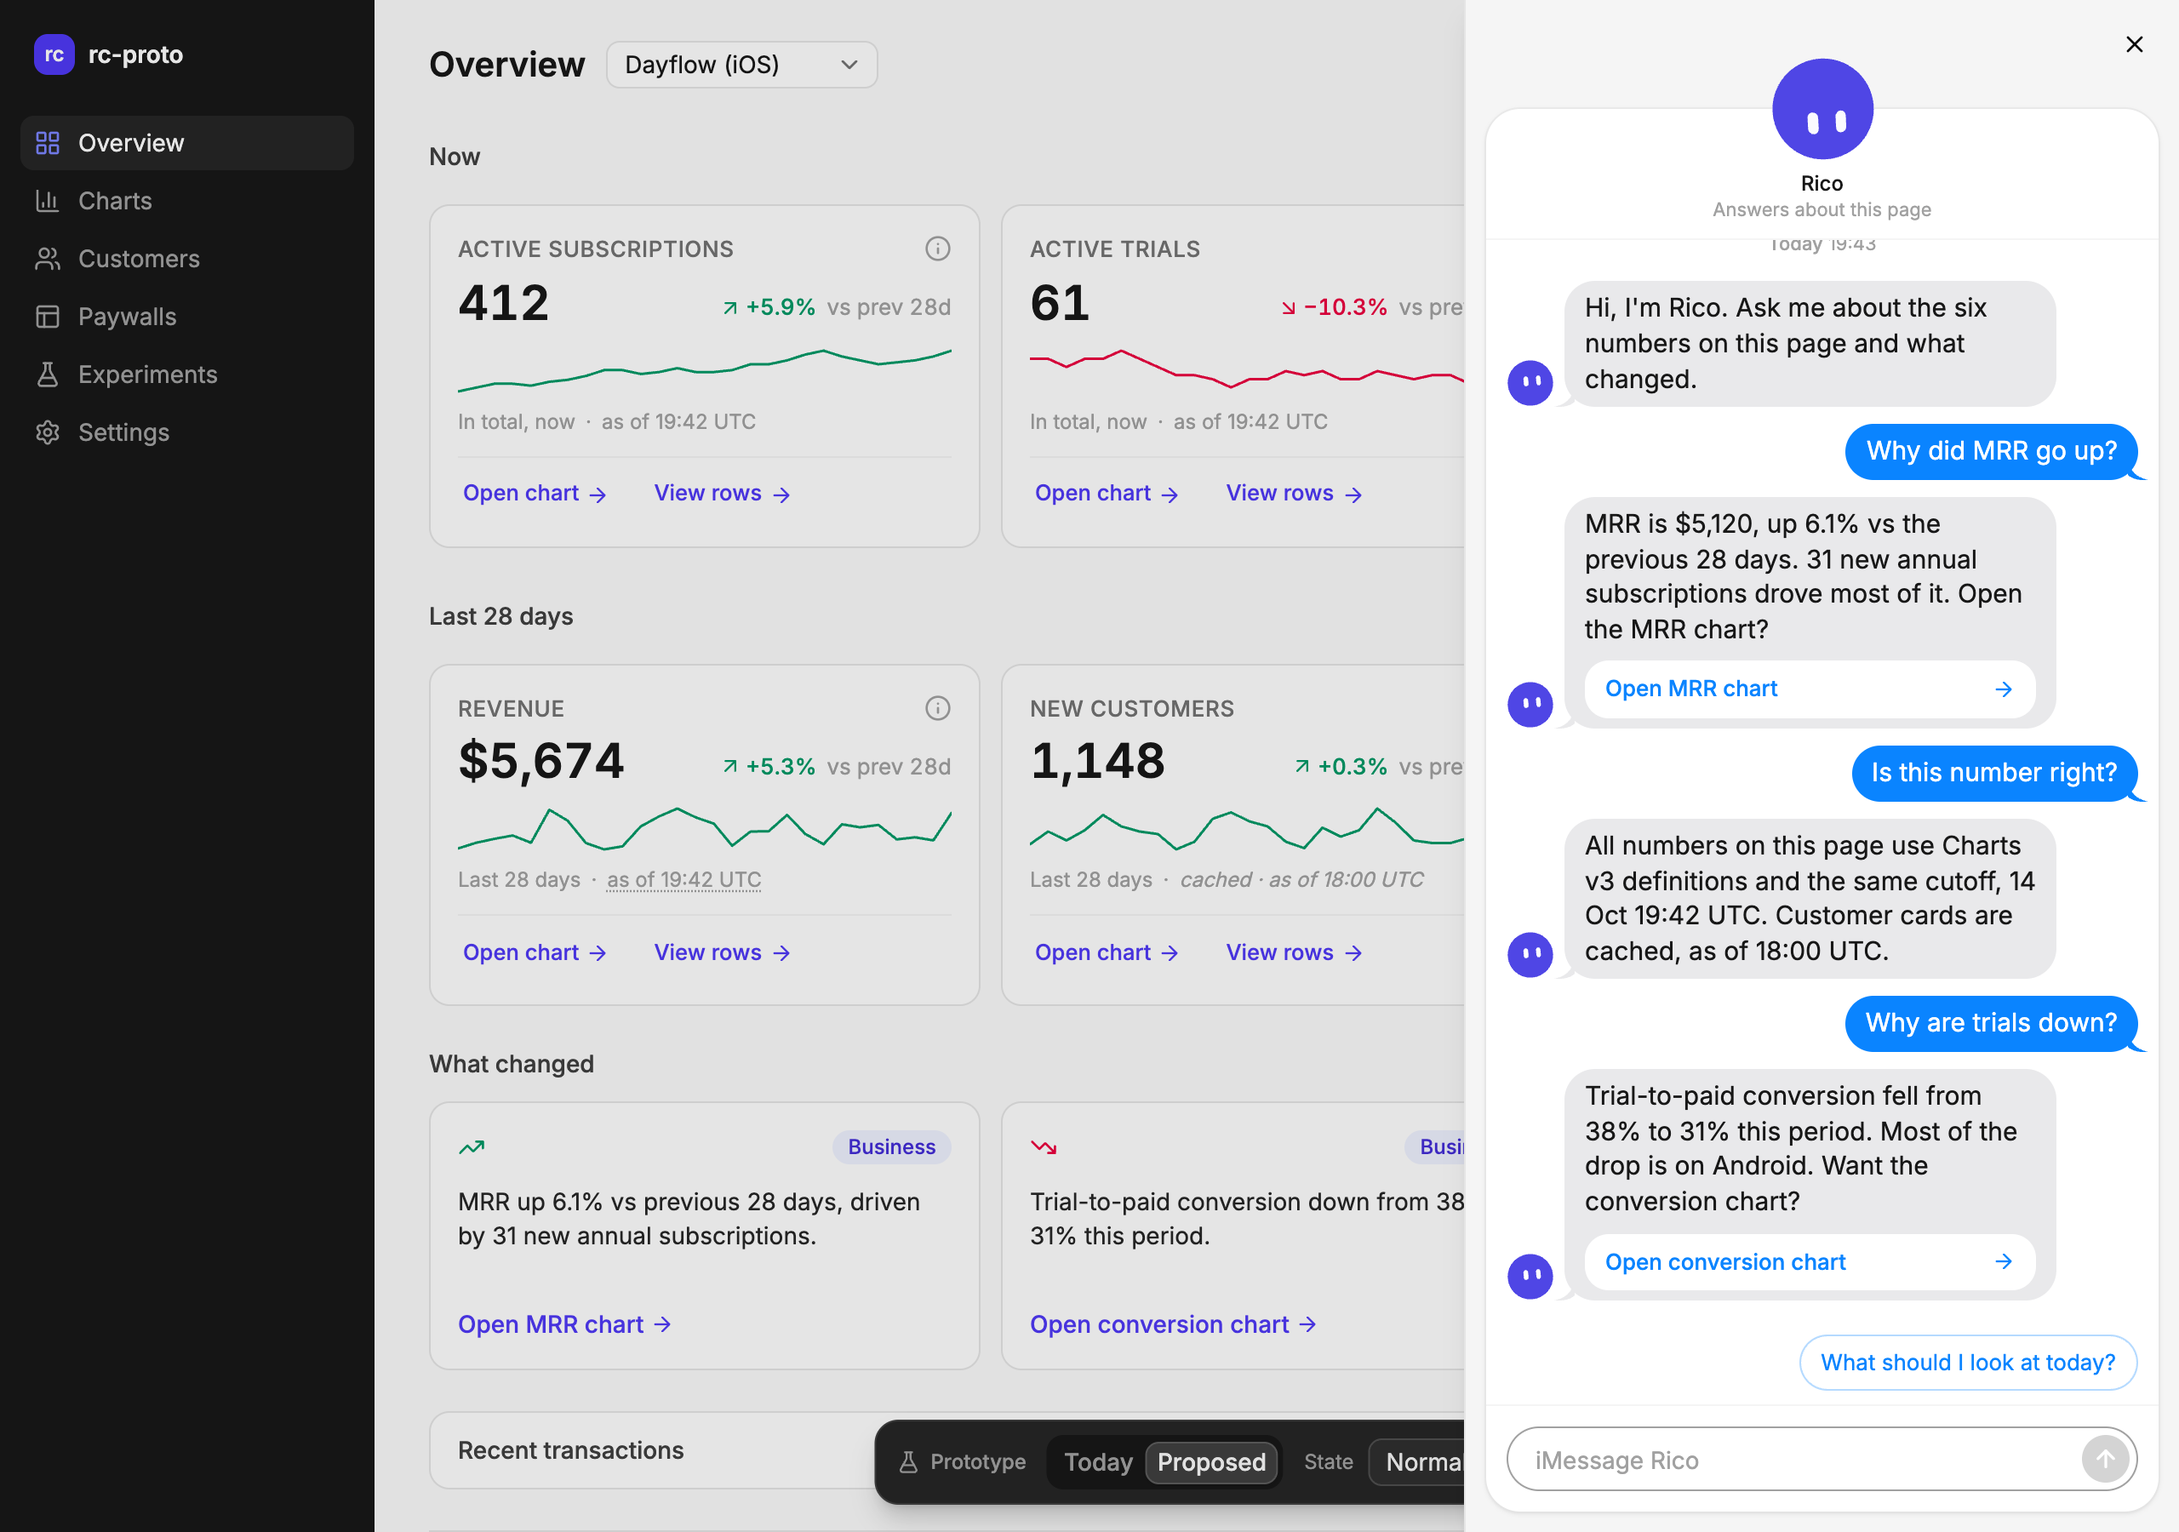
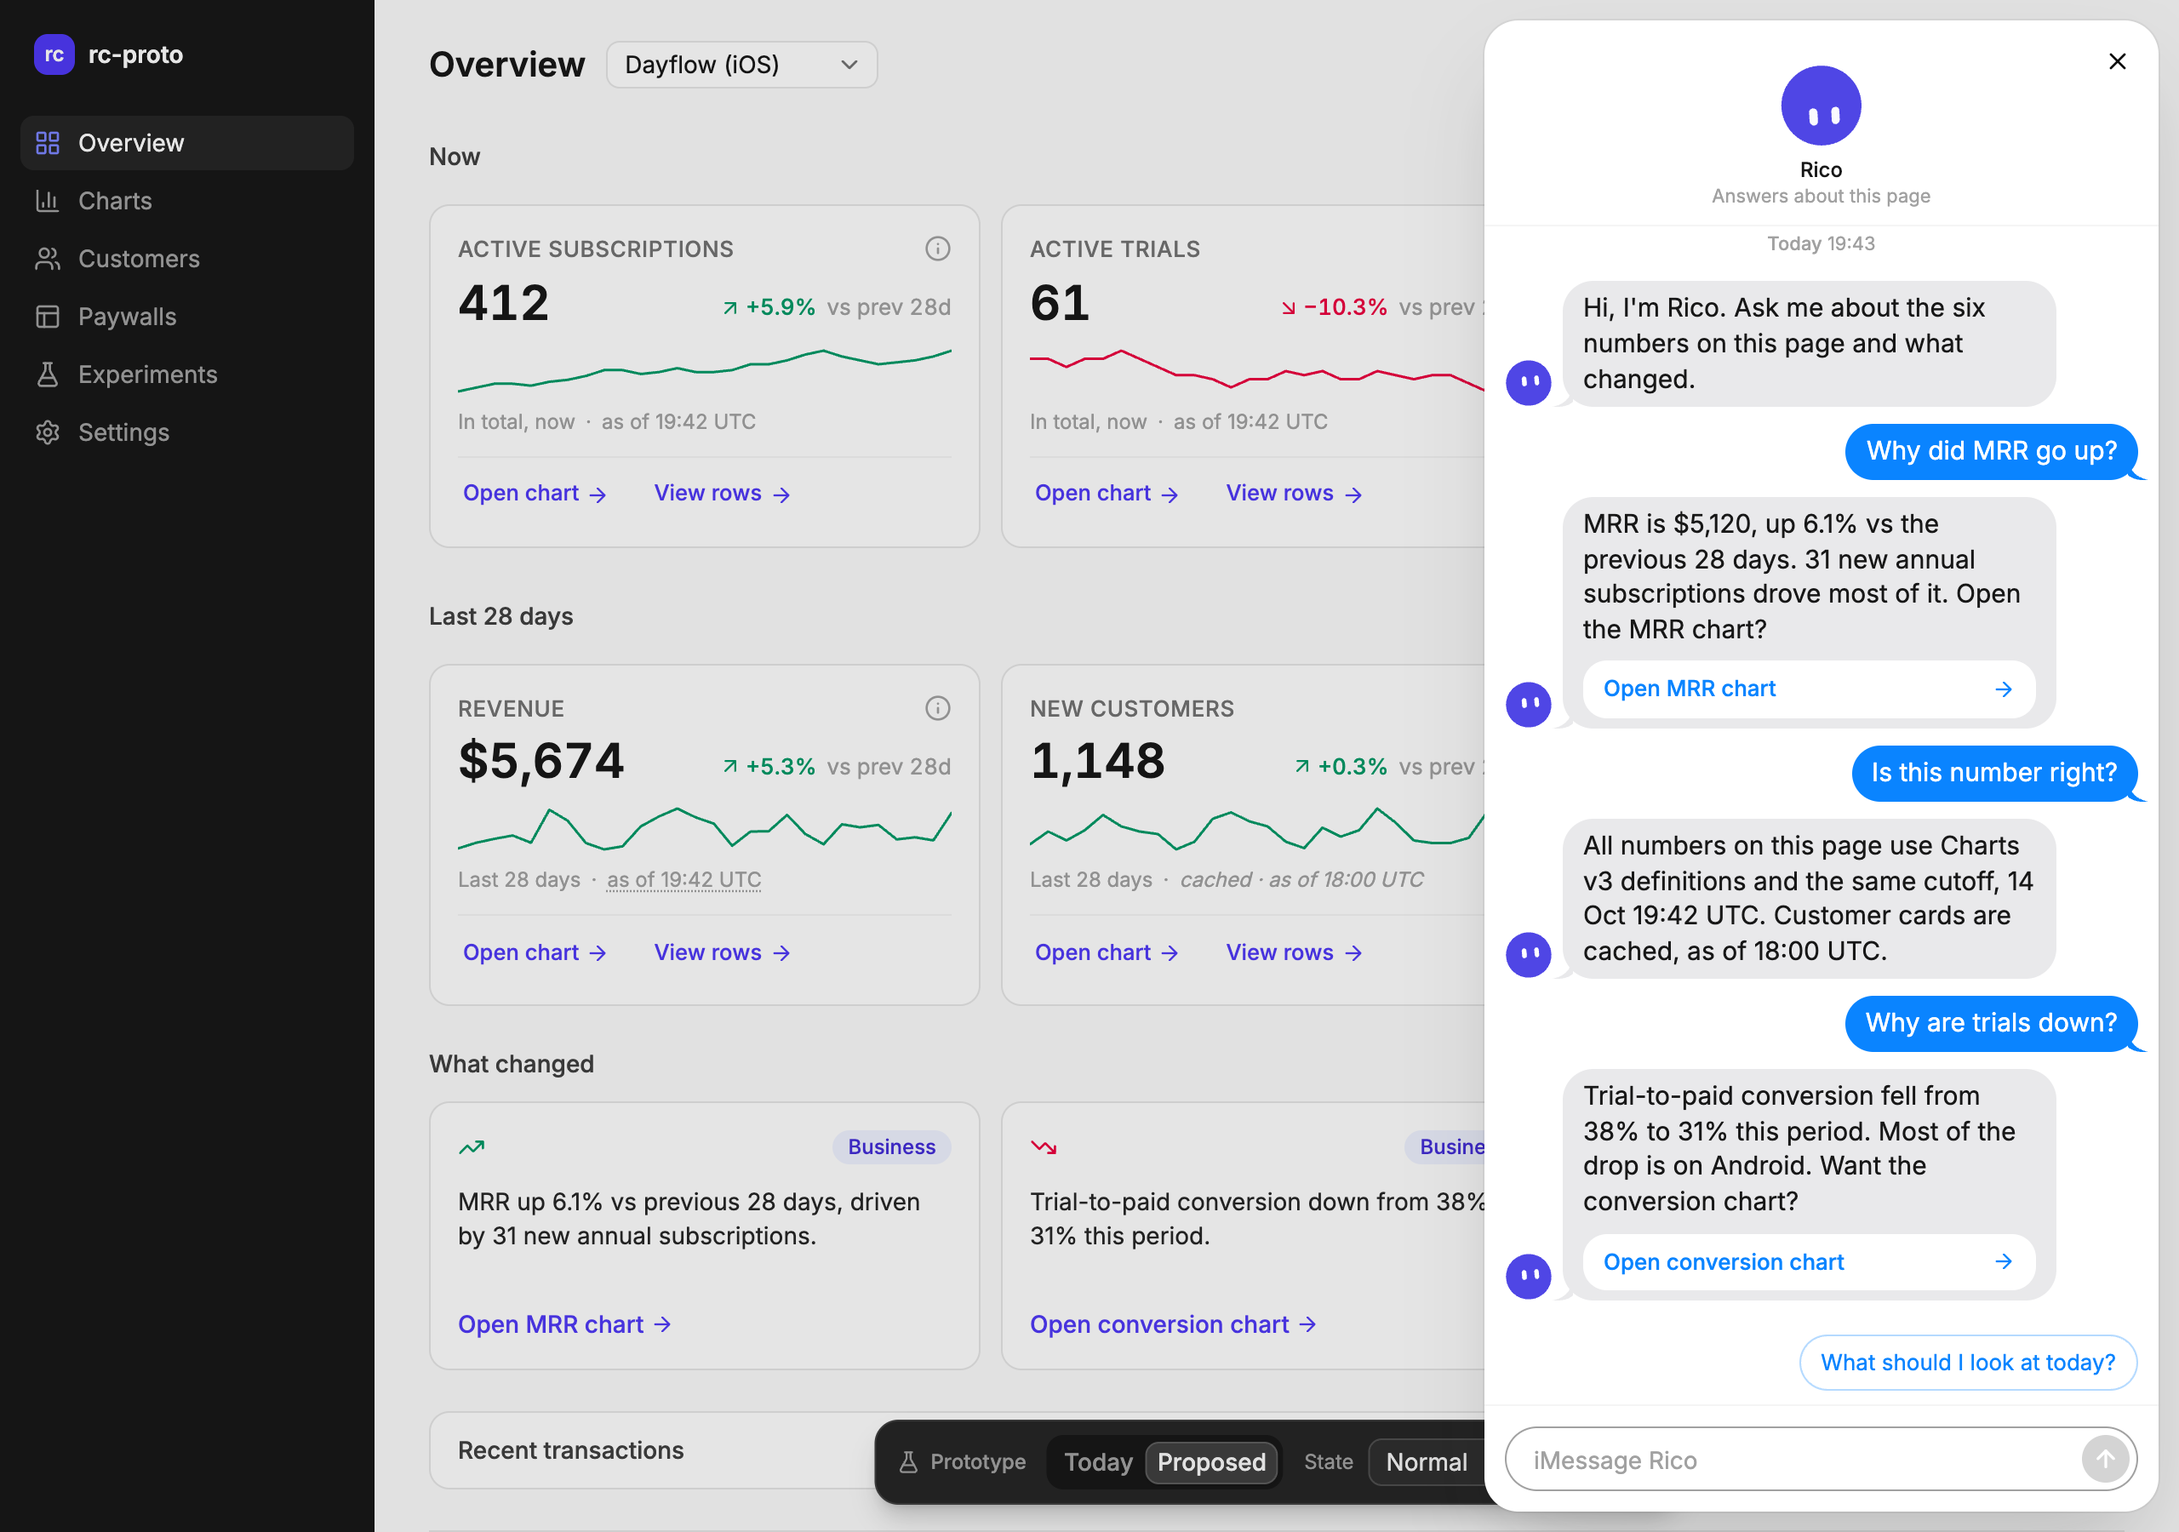
Rico chat as a floating card with Rico in its header; drag Rico between corners with drop spots

diff --git a/src/components/Rico.tsx b/src/components/Rico.tsx
@@ -1,6 +1,7 @@
-import { lazy, Suspense, useState } from "react";
+import { lazy, Suspense, useRef, useState } from "react";
 import { BloubRico } from "@/components/BloubRico";
 import { RICO_EYES, ricoPath } from "@/lib/rico-shape";
+import { cn } from "@/lib/utils";
 import { Tooltip, TooltipContent, TooltipTrigger } from "@/components/ui/tooltip";
 
 // Which Rico the page uses. "bloub" (round 5) is the bloub engine; "blob3d" (round 4) is the
@@ -49,29 +50,146 @@ export function RicoLive({ size, thinking, happy }: { size: number; thinking?: b
   return <BloubRico size={size} follow state={thinking ? "thinking" : "idle"} expression={happy ? "excite" : "attentif"} />;
 }
 
-// Floating bottom-right launcher: animated Rico, tooltip on hover, click opens the chat.
+type Corner = "br" | "bl" | "tr" | "tl";
+const CORNERS: Corner[] = ["br", "bl", "tr", "tl"];
+// Where Rico can sit. Bottom corners clear the prototype dock on a phone; left corners clear
+// the sidebar on desktop; top corners clear the phone top bar.
+const CORNER_CLASS: Record<Corner, string> = {
+  br: "right-1 bottom-20 md:right-3 md:bottom-2",
+  bl: "left-1 bottom-20 md:left-[228px] md:bottom-2",
+  tr: "right-1 top-12 md:right-3 md:top-2",
+  tl: "left-1 top-12 md:left-[228px] md:top-2",
+};
+const CORNER_KEY = "rico-corner";
+const DRAG_START = 6; // px of movement before a press becomes a drag
+
+function savedCorner(): Corner {
+  try {
+    const c = localStorage.getItem(CORNER_KEY) as Corner | null;
+    return c && CORNERS.includes(c) ? c : "br";
+  } catch {
+    return "br";
+  }
+}
+
+// Floating launcher: animated Rico in a corner, tooltip on hover, click opens the chat.
+// Drag it and the other corners show drop spots; it snaps to the nearest one on release.
 export function RicoLauncher({ onOpen }: { onOpen: () => void }) {
   const bloub = RICO_VERSION === "bloub";
   const size = bloub ? 96 : 72; // bloub's body fills ~63% of its box
+  const [corner, setCorner] = useState<Corner>(savedCorner);
   const [hover, setHover] = useState(false);
   const [jiggle, setJiggle] = useState(false);
+  // While dragging: Rico's box top-left in viewport px, and the corner it would land in.
+  const [drag, setDrag] = useState<{ x: number; y: number; target: Corner } | null>(null);
+  // After release: glide to the drop spot, then hand back to the corner classes.
+  const [landing, setLanding] = useState<{ x: number; y: number; corner: Corner } | null>(null);
+  const justDragged = useRef(false);
+  const spots = useRef<Partial<Record<Corner, HTMLDivElement | null>>>({});
+
+  const nearest = (cx: number, cy: number): Corner => {
+    let best: Corner = corner, bestD = Infinity;
+    for (const c of CORNERS) {
+      const r = spots.current[c]?.getBoundingClientRect();
+      if (!r) continue;
+      const d = Math.hypot(r.left + r.width / 2 - cx, r.top + r.height / 2 - cy);
+      if (d < bestD) { best = c; bestD = d; }
+    }
+    return best;
+  };
+
+  // Press is heard in the capture phase (the tooltip trigger may stop it bubbling); move and
+  // release on window, since a quick flick leaves Rico's box on the very first move.
+  const onPointerDown = (e: React.PointerEvent<HTMLDivElement>) => {
+    if (e.button !== 0) return;
+    const r = e.currentTarget.getBoundingClientRect();
+    const p = { x: e.clientX, y: e.clientY, dx: e.clientX - r.left, dy: e.clientY - r.top, dragged: false };
+    let last: { x: number; y: number } | null = null;
+
+    const move = (ev: PointerEvent) => {
+      if (!p.dragged && Math.hypot(ev.clientX - p.x, ev.clientY - p.y) < DRAG_START) return;
+      p.dragged = true;
+      ev.preventDefault();
+      last = { x: ev.clientX - p.dx, y: ev.clientY - p.dy };
+      setHover(false);
+      setDrag({ ...last, target: nearest(ev.clientX, ev.clientY) });
+    };
+    const up = (ev: PointerEvent) => {
+      window.removeEventListener("pointermove", move);
+      window.removeEventListener("pointerup", up);
+      window.removeEventListener("pointercancel", up);
+      if (!p.dragged || !last) return;
+      // The click that may follow this release is not a click.
+      justDragged.current = true;
+      setTimeout(() => { justDragged.current = false; }, 0);
+      const to = nearest(ev.clientX, ev.clientY);
+      const spot = spots.current[to]?.getBoundingClientRect();
+      setDrag(null);
+      // Already there (no transition would fire): land straight away.
+      if (spot && Math.hypot(spot.left - last.x, spot.top - last.y) > 1) setLanding({ x: spot.left, y: spot.top, corner: to });
+      else settle(to);
+    };
+    window.addEventListener("pointermove", move);
+    window.addEventListener("pointerup", up);
+    window.addEventListener("pointercancel", up);
+  };
+  const settle = (to: Corner) => {
+    setCorner(to);
+    try { localStorage.setItem(CORNER_KEY, to); } catch { /* per-viewer nicety only */ }
+    setLanding(null);
+  };
+  // left and top each end a transition; the second call finds landing already cleared.
+  const land = () => { if (landing) settle(landing.corner); };
+  const onClick = () => { if (!justDragged.current) onOpen(); };
+
+  const free = drag ?? landing;
+  const left = corner === "bl" || corner === "tl";
   return (
-    <div className={bloub ? "fixed right-1 bottom-20 z-40 md:right-3 md:bottom-2" : "fixed right-4 bottom-24 z-40 md:right-6 md:bottom-6"}>
-      <Tooltip>
-        <TooltipTrigger
-          render={<button onClick={onOpen} aria-label="Ask Rico" />}
-          onPointerEnter={() => { setHover(true); setJiggle(true); }}
-          onPointerLeave={() => setHover(false)}
-          className="group relative grid place-items-center rounded-full outline-none focus-visible:ring-3 focus-visible:ring-indigo-300"
+    <>
+      {/* Drop spots: always mounted so they can be measured, shown in the other corners while
+          dragging. Rico's own corner stays invisible but still counts, so letting go near it
+          puts Rico back. */}
+      {CORNERS.map((c) => (
+        <div
+          key={c}
+          ref={(el) => { spots.current[c] = el; }}
+          aria-hidden
+          className={cn("pointer-events-none fixed z-40 grid place-items-center", CORNER_CLASS[c], (!drag || c === corner) && "invisible")}
+          style={{ width: size, height: size }}
         >
-          <span aria-hidden className={bloub ? "absolute bottom-3 h-2 w-12 rounded-full bg-neutral-900/15 blur-[3px]" : "absolute bottom-1 h-2 w-10 rounded-full bg-neutral-900/15 blur-[3px]"} />
-          {/* The three.js blob jiggles itself; bloub gets one small CSS wobble per hover. */}
-          <span className={bloub && jiggle ? "rico-jiggle" : "block"} onAnimationEnd={() => setJiggle(false)}>
-            <RicoLive size={size} happy={hover} />
+          <span
+            className={cn(
+              "grid size-[62%] place-items-center rounded-full border-2 border-dashed text-center text-[10px] leading-tight font-medium transition-all duration-150",
+              drag?.target === c ? "scale-110 border-indigo-500 bg-indigo-100/80 text-indigo-700" : "border-indigo-300 bg-white/70 text-indigo-400",
+            )}
+          >
+            Drop<br />here
           </span>
-        </TooltipTrigger>
-        <TooltipContent side="left" sideOffset={bloub ? -6 : 4}>Ask Rico anything about this page</TooltipContent>
-      </Tooltip>
-    </div>
+        </div>
+      ))}
+
+      <div
+        className={cn("fixed", free ? "z-50" : "z-40", !free && CORNER_CLASS[corner], landing && "transition-[left,top] duration-300 ease-out")}
+        style={free ? { left: free.x, top: free.y } : undefined}
+        onTransitionEnd={(e) => e.target === e.currentTarget && land()}
+        onPointerDownCapture={onPointerDown}
+      >
+        <Tooltip open={hover && !free} onOpenChange={(o) => !o && setHover(false)}>
+          <TooltipTrigger
+            render={<button onClick={onClick} aria-label="Ask Rico" />}
+            onPointerEnter={() => { if (!free) { setHover(true); setJiggle(true); } }}
+            onPointerLeave={() => setHover(false)}
+            className={cn("group relative grid touch-none place-items-center rounded-full outline-none select-none focus-visible:ring-3 focus-visible:ring-indigo-300", drag ? "cursor-grabbing" : "cursor-grab")}
+          >
+            <span aria-hidden className={cn("absolute rounded-full bg-neutral-900/15 blur-[3px] transition-all", bloub ? "bottom-3 h-2 w-12" : "bottom-1 h-2 w-10", drag && "bottom-0 w-8 opacity-60")} />
+            {/* The three.js blob jiggles itself; bloub gets one small CSS wobble per hover. */}
+            <span className={cn(bloub && jiggle ? "rico-jiggle" : "block", drag && "scale-105")} onAnimationEnd={() => setJiggle(false)}>
+              <RicoLive size={size} happy={hover || !!drag} />
+            </span>
+          </TooltipTrigger>
+          <TooltipContent side={left ? "right" : "left"} sideOffset={bloub ? -6 : 4}>Ask Rico anything about this page</TooltipContent>
+        </Tooltip>
+      </div>
+    </>
   );
 }

diff --git a/src/components/Drawers.tsx b/src/components/Drawers.tsx
@@ -1,19 +1,22 @@
 import { useEffect, useRef, useState } from "react";
-import { ArrowRight, ArrowUp } from "lucide-react";
+import { ArrowRight, ArrowUp, XIcon } from "lucide-react";
 import { RicoAvatar, RicoLive } from "@/components/Rico";
 import { toast } from "sonner";
 import { Button } from "@/components/ui/button";
 import { Checkbox } from "@/components/ui/checkbox";
-import { Sheet, SheetContent, SheetDescription, SheetHeader, SheetTitle } from "@/components/ui/sheet";
+import { Sheet, SheetClose, SheetContent, SheetDescription, SheetHeader, SheetTitle } from "@/components/ui/sheet";
 import { cn } from "@/lib/utils";
 
 // One right-side drawer for Rico and for setup tasks: 420px, full width on a phone.
 export function SideDrawer({
-  open, onOpenChange, initialFocus, returnFocus = true, className, children,
-}: { open: boolean; onOpenChange: (o: boolean) => void; initialFocus?: React.RefObject<HTMLElement | null>; returnFocus?: boolean; className?: string; children: React.ReactNode }) {
+  open, onOpenChange, initialFocus, returnFocus = true, showCloseButton = true, className, children,
+}: {
+  open: boolean; onOpenChange: (o: boolean) => void; initialFocus?: React.RefObject<HTMLElement | null>;
+  returnFocus?: boolean; showCloseButton?: boolean; className?: string; children: React.ReactNode;
+}) {
   return (
     <Sheet open={open} onOpenChange={onOpenChange}>
-      <SheetContent side="right" initialFocus={initialFocus} finalFocus={returnFocus} className={cn("gap-0 bg-white data-[side=right]:w-full data-[side=right]:sm:max-w-[420px]", className)}>
+      <SheetContent side="right" initialFocus={initialFocus} finalFocus={returnFocus} showCloseButton={showCloseButton} className={cn("gap-0 bg-white data-[side=right]:w-full data-[side=right]:sm:max-w-[420px]", className)}>
         {children}
       </SheetContent>
     </Sheet>
@@ -65,14 +68,19 @@ export function RicoDrawer({
   const lastOfRun = (i: number) => messages[i + 1]?.from !== messages[i].from && !(typing && i === messages.length - 1 && messages[i].from === "rico");
 
   return (
-    <SideDrawer open={open} onOpenChange={onOpenChange} initialFocus={inputRef} returnFocus={false} className="bg-neutral-100">
-      {/* The white chat container, with Rico floating on its top edge. */}
-      <div className="relative mx-3 mt-16 mb-3 flex min-h-0 flex-1 flex-col rounded-[20px] bg-white shadow-sm ring-1 ring-neutral-200/70">
-        <div className="absolute -top-12 left-1/2 -translate-x-1/2">
-          <RicoLive size={96} thinking={typing} />
-        </div>
-        <div className="border-b border-neutral-100 pt-9 pb-2 text-center">
-          <SheetTitle className="text-xs font-medium text-neutral-900">Rico</SheetTitle>
+    // No sheet behind the chat: the sheet is transparent and only the white chat card slides in.
+    <SideDrawer
+      open={open} onOpenChange={onOpenChange} initialFocus={inputRef} returnFocus={false} showCloseButton={false}
+      className="bg-transparent p-2 shadow-none data-[side=right]:border-l-0 sm:p-3"
+    >
+      <div className="relative flex min-h-0 flex-1 flex-col overflow-hidden rounded-[20px] bg-white shadow-2xl shadow-neutral-900/20 ring-1 ring-black/5">
+        <SheetClose render={<Button variant="ghost" size="icon-sm" className="absolute top-2.5 right-2.5" />}>
+          <XIcon />
+          <span className="sr-only">Close</span>
+        </SheetClose>
+        <div className="flex flex-col items-center border-b border-neutral-100 pt-3 pb-2 text-center">
+          <RicoLive size={76} thinking={typing} />
+          <SheetTitle className="-mt-2 text-xs font-medium text-neutral-900">Rico</SheetTitle>
           <SheetDescription className="text-[11px] text-neutral-400">{typing ? "Thinking…" : "Answers about this page"}</SheetDescription>
         </div>
 

diff --git a/README.md b/README.md
@@ -13,7 +13,7 @@ npm install
 npm run dev                 # http://localhost:5173
 npm run build               # static build into dist/ (what Netlify serves)
 node scripts/gen-data.mjs   # regenerate the mock JSON (fixed seeds, deterministic)
-npm run screenshots         # screenshots 01-08 into screenshots/, plus click-through checks (needs dev server + Chrome)
+npm run screenshots         # screenshots 01-09 into screenshots/, plus click-through checks (needs dev server + Chrome)
 ```
 
 Push to `main` deploys to Netlify.
@@ -32,8 +32,10 @@ Push to `main` deploys to Netlify.
   ported from its Vue component to `BloubRico.tsx`). It floats in the bottom-right corner
   (above the dock on a phone), blinks, lets its gaze drift and follows the pointer. Hover
   gives one small wobble, lights the face up and shows "Ask Rico anything about this page".
-  Click opens a 420px right drawer (full width on a phone): a white chat container with the
-  live Rico floating on its top edge (it switches to bloub's "thinking" state while
+  Drag Rico and dashed "Drop here" spots appear in the other corners; it snaps to the
+  nearest one on release (remembered per browser). Click opens the chat: a floating white
+  card that slides in from the right with no sheet behind it (420px, full width on a
+  phone), with the live Rico in its header (it turns into bloub's "thinking" dots while
   replying), iMessage-style bubbles with Rico's face beside its own, the 3 suggested prompts
   stacked above the input (a sent one disappears), a typing
   bubble, and a mocked chat: replies after 600ms, keyed on "mrr", "trial",
